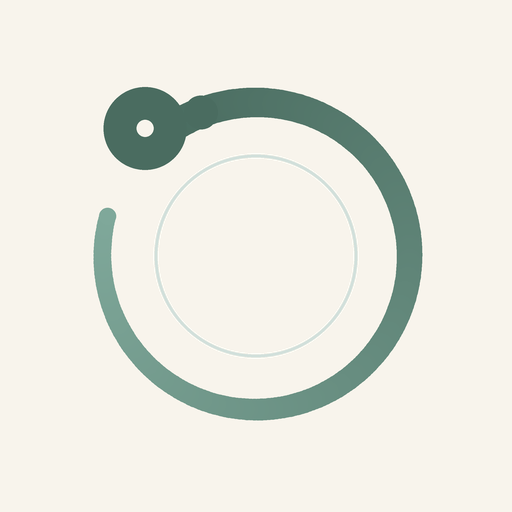
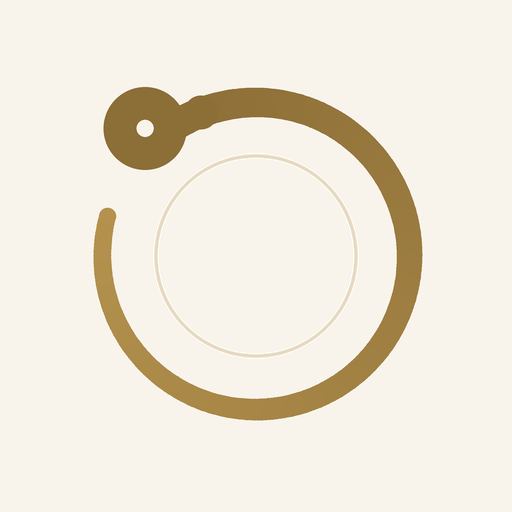
Accueil minimal premium (DA OCCULT), navigation et suivi de regularite
- Accueil epure : uniquement Ma direction (objectif), Ce que je
  travaille (theme/emotion focus, tap -> atelier) et le suivi de
  regularite. Tout le reste deplace.
- Navigation par barre d'onglets : Accueil / Explorer / Suivi, avec
  historique de retour. Explorer = hub (prochain pas, bilan, themes,
  explorations profondes, journaux). Suivi = regularite + progression +
  patterns.
- Suivi de regularite facon Manifestation : serie en cours, meilleure
  serie, total, semaine + grille 4 semaines.
- Choix du focus (config.focus) via un selecteur de theme.
- DA OCCULT : accent or par defaut, logo + icones en or, ornement,
  hero, finitions premium. theme_color mis a jour.

Claude-Session: https://claude.ai/code/session_01KRG6v7H7Q2eyxSHdX3EYHL

diff --git a/js/app.js b/js/app.js
@@ -74,6 +74,7 @@ const BG_THEMES = {
 };
 
 const PALETTES = {
+  or:      { nm: 'Or',      sw: '#B4924E', accent: '#B4924E', deep: '#8C6E37', soft: '#EFE6D0', glow: 'rgba(180,146,78,.20)' },
   sauge:   { nm: 'Sauge',   sw: '#7FA89A', accent: '#7FA89A', deep: '#5E8578', soft: '#E6EFEA', glow: 'rgba(127,168,154,.18)' },
   brume:   { nm: 'Brume',   sw: '#84A9B5', accent: '#84A9B5', deep: '#5F8894', soft: '#E5EEF1', glow: 'rgba(132,169,181,.18)' },
   lavande: { nm: 'Lavande', sw: '#A198C6', accent: '#A198C6', deep: '#7E74A6', soft: '#ECE9F3', glow: 'rgba(161,152,198,.18)' },
@@ -89,7 +90,7 @@ const State = {
   mode: null,          // 'local' | 'cloud'
   user: null,          // {uid, email}
   db: null,
-  prefs: { textScale: 1, theme: 'sauge', bg: 'ivoire' },
+  prefs: { textScale: 1, theme: 'or', bg: 'ivoire' },
   config: {},          // objective, fsPattern, fsAffirmations, fsMonth…
   entries: [],
   unsub: [],
@@ -338,6 +339,7 @@ function bilanDone() { return hasEntry('bilan'); }
 function bindAppChrome() {
   $('#btnText').onclick = openTextSize;
   $('#btnMenu').onclick = openMenu;
+  $$('.tabbar .tab').forEach((b) => (b.onclick = () => goTab(b.dataset.tab)));
 }
 
 function openTextSize() {
@@ -433,20 +435,35 @@ function importData() {
    Router
    ============================================================ */
 let currentRoute = 'home';
-function go(route) { currentRoute = route; window.scrollTo(0, 0); render(); }
+let navHistory = [];
+const TABS = ['home', 'explore', 'suivi'];
+function tabOf(route) {
+  if (route === 'home') return 'home';
+  if (route === 'suivi' || route === 'patterns') return 'suivi';
+  return 'explore';
+}
+function go(route) { navHistory.push(currentRoute); currentRoute = route; window.scrollTo(0, 0); render(); }
+function back() { currentRoute = navHistory.pop() || tabOf(currentRoute); window.scrollTo(0, 0); render(); }
+function goTab(tab) { navHistory = []; currentRoute = tab; window.scrollTo(0, 0); render(); }
 
 function render() {
   if (!State.mode) return;
+  syncTabbar();
   const s = $('#screen'); s.innerHTML = '';
   if (currentRoute === 'home') return renderHome(s);
   if (currentRoute.startsWith('atelier:')) return viewAtelier(s, currentRoute.slice(8));
-  const fn = { bilan: viewBilan, bilanresult: viewBilanResultRoute, patterns: viewPatterns, shadow: viewShadow, futureself: viewFutureSelf, checkin: viewCheckin, reparenting: viewReparenting, regulation: viewRegulation, awareness: viewAwareness, expressive: viewExpressive }[currentRoute];
+  const fn = { explore: viewExplore, suivi: viewSuivi, bilan: viewBilan, bilanresult: viewBilanResultRoute, patterns: viewPatterns, shadow: viewShadow, futureself: viewFutureSelf, checkin: viewCheckin, reparenting: viewReparenting, regulation: viewRegulation, awareness: viewAwareness, expressive: viewExpressive }[currentRoute];
   (fn || renderHome)(s);
+}
+
+function syncTabbar() {
+  const tab = tabOf(currentRoute);
+  $$('.tabbar .tab').forEach((b) => b.classList.toggle('on', b.dataset.tab === tab));
 }
 
 function viewHead(parent, title, sub) {
   parent.append(el('div', { class: 'vhead' },
-    el('button', { class: 'back', title: 'Retour', onclick: () => go('home') }, '‹'),
+    el('button', { class: 'back', title: 'Retour', onclick: back }, '‹'),
     el('div', { class: 'vt' }, el('h2', {}, title), sub ? el('div', { class: 'sub' }, sub) : null)));
 }
 
@@ -472,30 +489,149 @@ function editObjective() {
   const m = modal(box, { title: 'Mon objectif principal' });
 }
 
-/* ---------- Accueil (guidé, en sections) ---------- */
+/* ============================================================
+   ACCUEIL — minimal : direction + émotion à travailler + régularité
+   ============================================================ */
 function renderHome(s) {
   const hour = new Date().getHours();
   const hi = hour < 6 ? 'Douce nuit' : hour < 12 ? 'Bonjour' : hour < 18 ? 'Bon après-midi' : 'Bonne soirée';
-  s.append(el('div', { class: 'greeting' },
-    el('div', { class: 'hi' }, hi),
-    el('div', { class: 'date' }, fmtDate(new Date())),
-    State.mode === 'local' ? el('span', { class: 'mode-badge' }, '📱 Local') : null));
+  s.append(el('div', { class: 'home-hero' },
+    el('div', { class: 'hh-mark', html: OUROBOROS }),
+    el('div', { class: 'hh-hi' }, hi),
+    el('div', { class: 'hh-date' }, fmtDate(new Date()))));
 
-  renderObjective(s);
+  renderDirection(s);
+  renderFocus(s);
+  renderStreakCompact(s);
+}
 
-  if (State.config.fsAffirmations) {
-    const affs = String(State.config.fsAffirmations).split('\n').map((x) => x.trim()).filter(Boolean);
-    if (affs.length) s.append(el('div', { class: 'affirm' }, '“' + affs[new Date().getDate() % affs.length] + '”'));
+/* La direction (objectif principal) — pièce maîtresse */
+function renderDirection(s) {
+  const obj = State.config.objective;
+  s.append(el('div', { class: 'ornament' }, el('span', {}, '❦')));
+  s.append(el('div', { class: 'direction', onclick: editObjective },
+    el('div', { class: 'dir-label' }, 'Ma direction'),
+    el('div', { class: 'dir-text' + (obj ? '' : ' empty') }, obj || 'Toucher pour poser mon intention…'),
+    el('div', { class: 'dir-edit' }, '✎')));
+}
+
+/* L'émotion / le thème que je travaille en ce moment */
+function renderFocus(s) {
+  const fid = State.config.focus || topTheme();
+  s.append(el('div', { class: 'sec-head' }, el('h2', {}, 'Ce que je travaille'),
+    el('button', { class: 'link', onclick: editFocus }, (State.config.focus ? 'Changer' : 'Choisir') + ' →')));
+  if (!fid || !THEMES[fid]) {
+    s.append(el('div', { class: 'card center', onclick: editFocus, style: 'cursor:pointer' },
+      el('p', { class: 'muted', style: 'margin:0' }, '🎯 Choisis l’émotion ou le pattern que tu veux travailler en ce moment.')));
+    return;
   }
+  const t = THEMES[fid];
+  const done = entriesOf('atelier').filter((a) => a.theme === fid).length;
+  s.append(el('div', { class: 'focus-card', onclick: () => go('atelier:' + fid) },
+    el('div', { class: 'fc-ic' }, t.ic),
+    el('div', { class: 'fc-body' },
+      el('div', { class: 'fc-name' }, t.nm),
+      el('div', { class: 'fc-desc' }, t.desc),
+      done ? el('div', { class: 'fc-meta' }, '✓ ' + done + ' passage' + (done > 1 ? 's' : '')) : null),
+    el('div', { class: 'fc-go' }, 'Travailler ›')));
+}
+function editFocus() {
+  const lb = latestBilan();
+  const order = Object.keys(THEMES).sort((a, b) => (lb && lb.scores ? (lb.scores[b] || 0) - (lb.scores[a] || 0) : 0));
+  const list = el('div', {});
+  order.forEach((id) => {
+    const t = THEMES[id];
+    list.append(el('button', { class: 'pick-row' + (State.config.focus === id ? ' on' : ''), onclick: () => {
+      saveConfig({ focus: id }); m.close(); render(); toast('Focus défini');
+    } }, el('span', { class: 'pr-ic' }, t.ic), el('span', {}, el('b', {}, t.short), el('span', { class: 'muted small' }, ' — ' + t.desc))));
+  });
+  const box = el('div', {}, el('p', { class: 'small muted' }, 'Sur quoi veux-tu concentrer ton travail en ce moment ? (modifiable à tout moment)'), list);
+  const m = modal(box, { title: 'Ce que je travaille' });
+}
 
+/* ---------- Suivi de régularité (streak) ---------- */
+function practiceDays() {
+  const set = new Set();
+  State.entries.forEach((e) => { if (e.date) set.add(e.date); else if (e.createdAt) set.add(new Date(e.createdAt).toISOString().slice(0, 10)); });
+  return set;
+}
+function computeStreak() {
+  const days = practiceDays();
+  const iso = (d) => d.toISOString().slice(0, 10);
+  const today = new Date(); today.setHours(12, 0, 0, 0);
+  const todayStr = iso(today);
+  const yesterday = new Date(today); yesterday.setDate(today.getDate() - 1);
+  let cur = 0;
+  // point de départ : aujourd'hui si pratiqué, sinon hier (pour ne pas casser avant la fin de journée)
+  let start = days.has(todayStr) ? new Date(today) : (days.has(iso(yesterday)) ? new Date(yesterday) : null);
+  if (start) { const d = new Date(start); while (days.has(iso(d))) { cur++; d.setDate(d.getDate() - 1); } }
+  // meilleure série
+  let best = 0; const sorted = [...days].sort();
+  let run = 0, prev = null;
+  sorted.forEach((ds) => {
+    const d = new Date(ds);
+    if (prev && (d - prev) === 86400000) run++; else run = 1;
+    best = Math.max(best, run); prev = d;
+  });
+  return { current: cur, best, total: days.size, today: days.has(todayStr), days };
+}
+function last7() {
+  const days = practiceDays(); const out = [];
+  const t = new Date(); t.setHours(12, 0, 0, 0);
+  for (let i = 6; i >= 0; i--) { const d = new Date(t); d.setDate(t.getDate() - i); out.push({ label: ['D', 'L', 'M', 'M', 'J', 'V', 'S'][d.getDay()], on: days.has(d.toISOString().slice(0, 10)) }); }
+  return out;
+}
+function renderStreakCompact(s) {
+  const st = computeStreak();
+  const dots = el('div', { class: 'streak-week' });
+  last7().forEach((d) => dots.append(el('div', { class: 'sd' + (d.on ? ' on' : '') }, el('span', {}, d.label))));
+  s.append(el('div', { class: 'streak-card', onclick: () => go('suivi') },
+    el('div', { class: 'sc-flame' }, '🔥'),
+    el('div', { class: 'sc-body' },
+      el('div', { class: 'sc-num' }, st.current + ' jour' + (st.current > 1 ? 's' : '')),
+      el('div', { class: 'sc-sub' }, st.today ? 'Pratiqué aujourd’hui ✓' : 'Pas encore aujourd’hui')),
+    dots));
+}
+function renderStreakFull(s) {
+  const st = computeStreak();
+  s.append(el('div', { class: 'card' },
+    el('div', { class: 'streak-stats' },
+      el('div', { class: 'ss' }, el('div', { class: 'ss-n' }, st.current), el('div', { class: 'ss-l' }, 'jours d’affilée')),
+      el('div', { class: 'ss' }, el('div', { class: 'ss-n' }, st.best), el('div', { class: 'ss-l' }, 'meilleure série')),
+      el('div', { class: 'ss' }, el('div', { class: 'ss-n' }, st.total), el('div', { class: 'ss-l' }, 'jours au total'))),
+    renderMonthGrid(st.days)));
+}
+function renderMonthGrid(days) {
+  const wrap = el('div', { class: 'month-grid' });
+  const t = new Date(); t.setHours(12, 0, 0, 0);
+  for (let i = 27; i >= 0; i--) { const d = new Date(t); d.setDate(t.getDate() - i); wrap.append(el('div', { class: 'mg' + (days.has(d.toISOString().slice(0, 10)) ? ' on' : '') })); }
+  return el('div', {}, el('div', { class: 'small muted', style: 'margin:14px 0 8px' }, '4 dernières semaines'), wrap);
+}
+
+/* ============================================================
+   EXPLORER — le hub (tout le reste)
+   ============================================================ */
+function viewExplore(s) {
+  s.append(el('div', { class: 'vhead' }, el('div', { class: 'vt' }, el('h2', {}, 'Explorer'), el('div', { class: 'sub' }, 'Bilan · thèmes · pratiques'))));
   renderNextStep(s);
   renderBilanTeaser(s);
   renderThemeSection(s);
   renderDeepSection(s);
-  renderPatternsTeaser(s);
   renderExploration(s);
+  s.append(el('p', { class: 'small muted center', style: 'margin-top:20px' }, 'Méthode inspirée de Dr. Nicole LePera — How to Do the Work.'));
+}
 
-  s.append(el('p', { class: 'small muted center', style: 'margin-top:24px' }, 'Méthode inspirée de Dr. Nicole LePera — How to Do the Work.'));
+/* ============================================================
+   SUIVI — régularité + progression + patterns
+   ============================================================ */
+function viewSuivi(s) {
+  s.append(el('div', { class: 'vhead' }, el('div', { class: 'vt' }, el('h2', {}, 'Mon suivi'), el('div', { class: 'sub' }, 'Régularité · progression · patterns'))));
+  s.append(el('div', { class: 'sec-head' }, el('h2', {}, 'Régularité')));
+  renderStreakFull(s);
+  const lb = latestBilan();
+  if (lb) { s.append(el('div', { class: 'sec-head' }, el('h2', {}, 'Progression'))); renderProgression(s); }
+  s.append(el('div', { class: 'sec-head' }, el('h2', {}, 'Mes patterns')));
+  renderPatternsInto(s);
 }
 
 /* Carte « Mon prochain pas » */
@@ -1056,6 +1192,9 @@ function viewAtelier(s, themeId) {
    ============================================================ */
 function viewPatterns(s) {
   viewHead(s, 'Mes patterns', 'Ce qui relie tes exercices');
+  renderPatternsInto(s);
+}
+function renderPatternsInto(s) {
   const insights = [];
   const sig = computeThemeSignals();
   const ranked = Object.entries(sig).filter(([, v]) => v > 0).sort((a, b) => b[1] - a[1]);

diff --git a/css/style.css b/css/style.css
@@ -9,11 +9,11 @@
   --ink:       #423E37;   /* encre douce (moins dure que le noir) */
   --ink-soft:  #7C766B;
   --line:      #EAE2D5;
-  /* accent apaisant — surchargé par le sélecteur de couleur (thème par défaut : sauge douce) */
-  --accent:      #7FA89A;
-  --accent-deep: #5E8578;
-  --accent-soft: #E6EFEA;
-  --accent-glow: rgba(127,168,154,.16);
+  /* accent — DA OCCULT (or) par défaut, surchargé par le sélecteur */
+  --accent:      #B4924E;
+  --accent-deep: #8C6E37;
+  --accent-soft: #EFE6D0;
+  --accent-glow: rgba(180,146,78,.20);
   --danger:    #B57468;
   --radius:    18px;
   --shadow:    0 2px 10px rgba(90,110,100,.05), 0 10px 30px rgba(90,110,100,.06);
@@ -342,3 +342,94 @@ input[type=range]{width:100%;accent-color:var(--accent)}
 .emo-role .rk{font-size:.72em;letter-spacing:.08em;text-transform:uppercase;color:var(--accent-deep);display:block;margin-bottom:2px}
 .emo-role .rv{font-size:.9em;line-height:1.65}
 .emo-role .msg{font-family:'Cinzel',serif;font-size:1.05em;color:var(--accent-deep);background:var(--accent-soft);border-radius:10px;padding:10px 14px;margin-bottom:12px}
+
+/* ============================================================
+   v5 — Accueil premium (DA OCCULT) + navigation + régularité
+   ============================================================ */
+
+/* Barre d'onglets */
+.tabbar{
+  position:fixed;left:0;right:0;bottom:0;z-index:40;
+  display:flex;justify-content:space-around;align-items:center;
+  background:var(--topbar,rgba(248,244,236,.92));backdrop-filter:blur(14px);
+  border-top:1px solid var(--line);
+  padding:8px 8px calc(8px + env(safe-area-inset-bottom));
+}
+.tabbar .tab{
+  flex:1;background:none;border:none;cursor:pointer;color:var(--ink-soft);
+  display:flex;flex-direction:column;align-items:center;gap:3px;padding:6px 4px;transition:.15s;
+}
+.tabbar .tab .ti{font-size:1.25em;line-height:1}
+.tabbar .tab .tl{font-size:.68em;letter-spacing:.06em;font-weight:500}
+.tabbar .tab.on{color:var(--accent-deep)}
+.tabbar .tab.on .ti{transform:translateY(-1px)}
+.wrap{padding-bottom:96px}
+
+/* Accueil : hero */
+.home-hero{text-align:center;padding:30px 0 6px}
+.home-hero .hh-mark{width:52px;height:52px;margin:0 auto 14px;color:var(--accent)}
+.home-hero .hh-mark svg{width:100%;height:100%}
+.home-hero .hh-hi{font-family:'Cinzel',serif;font-size:1.7em;font-weight:600}
+.home-hero .hh-date{color:var(--ink-soft);font-size:.82em;text-transform:capitalize;letter-spacing:.02em}
+
+/* Ornement OCCULT */
+.ornament{display:flex;align-items:center;justify-content:center;gap:14px;margin:22px 0 16px;color:var(--accent)}
+.ornament::before,.ornament::after{content:'';height:1px;width:60px;background:linear-gradient(90deg,transparent,var(--accent))}
+.ornament::after{background:linear-gradient(90deg,var(--accent),transparent)}
+.ornament span{font-size:.9em;opacity:.8}
+
+/* La direction */
+.direction{
+  position:relative;text-align:center;cursor:pointer;
+  background:
+    radial-gradient(120% 120% at 50% 0%, var(--accent-soft), transparent 70%),
+    var(--surface);
+  border:1px solid var(--line);border-radius:var(--radius);
+  padding:28px 24px;box-shadow:var(--shadow);transition:.18s;
+}
+.direction:hover{border-color:var(--accent)}
+.direction .dir-label{font-size:.7em;letter-spacing:.22em;text-transform:uppercase;color:var(--accent-deep);margin-bottom:12px;font-weight:600}
+.direction .dir-text{font-family:'Cinzel',serif;font-size:1.5em;line-height:1.35;color:var(--ink)}
+.direction .dir-text.empty{font-family:'Poppins',sans-serif;font-size:1em;font-style:italic;color:var(--ink-soft)}
+.direction .dir-edit{position:absolute;top:14px;right:16px;color:var(--accent-deep);opacity:.45;font-size:.9em}
+
+/* Carte focus */
+.focus-card{
+  display:flex;align-items:center;gap:16px;cursor:pointer;text-align:left;width:100%;
+  background:var(--surface);border:1px solid var(--line);border-radius:var(--radius);
+  padding:20px;box-shadow:var(--shadow);transition:.18s;
+}
+.focus-card:hover{border-color:var(--accent);transform:translateY(-2px)}
+.focus-card .fc-ic{font-size:2em;line-height:1;flex:none}
+.focus-card .fc-body{flex:1;min-width:0}
+.focus-card .fc-name{font-family:'Cinzel',serif;font-weight:600;font-size:1.1em}
+.focus-card .fc-desc{font-size:.84em;color:var(--ink-soft);line-height:1.4}
+.focus-card .fc-meta{font-size:.75em;color:var(--accent-deep);margin-top:4px}
+.focus-card .fc-go{font-size:.85em;color:var(--accent-deep);font-weight:600;flex:none}
+
+/* Sélecteur de focus */
+.pick-row{display:flex;gap:12px;align-items:flex-start;width:100%;text-align:left;border:1px solid var(--line);background:var(--bg-soft);border-radius:12px;padding:12px 14px;margin-bottom:8px;cursor:pointer;transition:.12s}
+.pick-row:hover{border-color:var(--accent)}
+.pick-row.on{background:var(--accent-soft);border-color:var(--accent)}
+.pick-row .pr-ic{font-size:1.3em;flex:none;line-height:1}
+
+/* Régularité — compact */
+.streak-card{display:flex;align-items:center;gap:14px;cursor:pointer;background:var(--surface);border:1px solid var(--line);border-radius:var(--radius);padding:16px 18px;box-shadow:var(--shadow);margin-top:6px}
+.streak-card:hover{border-color:var(--accent)}
+.streak-card .sc-flame{font-size:1.7em;flex:none}
+.streak-card .sc-body{flex:1;min-width:0}
+.streak-card .sc-num{font-family:'Cinzel',serif;font-weight:600;font-size:1.15em}
+.streak-card .sc-sub{font-size:.8em;color:var(--ink-soft)}
+.streak-week{display:flex;gap:5px;flex:none}
+.streak-week .sd{width:22px;height:22px;border-radius:7px;background:var(--surface-2);display:flex;align-items:center;justify-content:center}
+.streak-week .sd span{font-size:.6em;color:var(--ink-soft)}
+.streak-week .sd.on{background:var(--accent)}
+.streak-week .sd.on span{color:#fff}
+
+/* Régularité — complet */
+.streak-stats{display:flex;justify-content:space-around;text-align:center;margin-bottom:6px}
+.streak-stats .ss-n{font-family:'Cinzel',serif;font-size:1.9em;color:var(--accent-deep)}
+.streak-stats .ss-l{font-size:.72em;color:var(--ink-soft);letter-spacing:.04em}
+.month-grid{display:grid;grid-template-columns:repeat(7,1fr);gap:6px}
+.month-grid .mg{aspect-ratio:1;border-radius:6px;background:var(--surface-2)}
+.month-grid .mg.on{background:var(--accent)}

diff --git a/index.html b/index.html
@@ -3,7 +3,7 @@
 <head>
 <meta charset="UTF-8">
 <meta name="viewport" content="width=device-width, initial-scale=1, viewport-fit=cover">
-<meta name="theme-color" content="#4E7C6E">
+<meta name="theme-color" content="#B4924E">
 <title>Travail émotionnel</title>
 <meta name="description" content="Espace de travail émotionnel — Future Self Journal, check-in, reparentage, régulation.">
 
@@ -90,6 +90,15 @@
   <div class="wrap">
     <div id="screen"><!-- vues injectées ici --></div>
   </div>
+
+  <nav class="tabbar">
+    <button class="tab on" data-tab="home">
+      <span class="ti">☾</span><span class="tl">Accueil</span></button>
+    <button class="tab" data-tab="explore">
+      <span class="ti">❖</span><span class="tl">Explorer</span></button>
+    <button class="tab" data-tab="suivi">
+      <span class="ti">◈</span><span class="tl">Suivi</span></button>
+  </nav>
 </div>
 
 <div id="toast" class="toast"></div>

diff --git a/sw.js b/sw.js
@@ -1,6 +1,6 @@
 // Service worker — stratégie réseau-d'abord (network-first) avec repli cache.
 // Incrémenter CACHE_VERSION à chaque déploiement pour rafraîchir le cache.
-const CACHE_VERSION = 'emotion-v4';
+const CACHE_VERSION = 'emotion-v5';
 const CORE = [
   './',
   './index.html',
